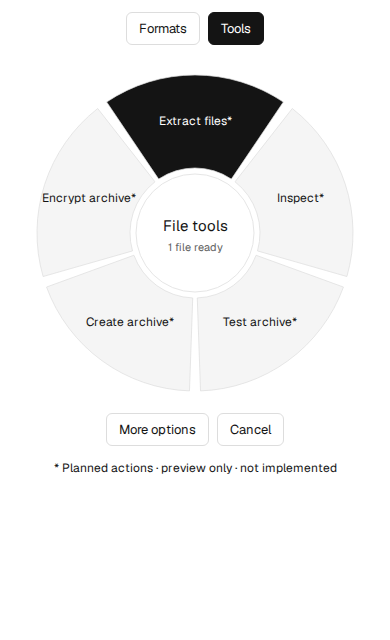
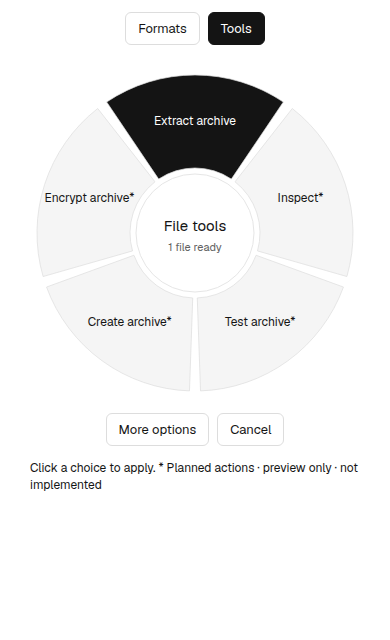
feat: add archive extraction and video mute tools

diff --git a/src/renderer/renderer.js b/src/renderer/renderer.js
@@ -17,7 +17,7 @@ function render() {
     const row = document.createElement('div'); row.className = 'file-row';
     const identity = document.createElement('div'); identity.className = 'file-name'; identity.textContent = file.name; identity.title = file.name;
     const meta = document.createElement('span'); meta.className = 'file-meta'; meta.textContent = `${file.category} · ${bytes(file.bytes)}`; identity.append(meta);
-    const format = document.createElement('button'); format.className = 'file-format'; format.textContent = file.operation === 'strip-metadata' ? 'Clean metadata' : file.target ? `→ ${formatLabel(file, file.target)}` : 'Unavailable'; format.setAttribute('aria-label', `Output format for ${file.name}`); format.disabled = busy || !!file.output || !file.targets.length;
+    const format = document.createElement('button'); format.className = 'file-format'; format.textContent = file.operation === 'strip-metadata' ? 'Clean metadata' : file.operation === 'extract-archive' ? 'Extract archive' : file.operation === 'mute-video' ? 'Mute video' : file.target ? `→ ${formatLabel(file, file.target)}` : 'Unavailable'; format.setAttribute('aria-label', `Output format for ${file.name}`); format.disabled = busy || !!file.output || (!file.targets.length && !file.tools.length);
     format.onclick = () => openFormats(file); format.onkeydown = event => { if (event.key === 'Shift') { event.preventDefault(); openFormats(file); } };
     const state = document.createElement('div'); state.className = `file-state${file.error ? ' error' : ''}`;
     if (file.output) { const reveal = document.createElement('button'); reveal.textContent = 'Show file'; reveal.onclick = () => bridge.reveal(file.output).catch(error => message(error.message)); state.append(reveal); }
@@ -66,6 +66,16 @@ function openFormats(file) {
       active.imageOptions = { width: $('#image-width').value ? Number($('#image-width').value) : undefined, height: $('#image-height').value ? Number($('#image-height').value) : undefined, quality: Number($('#image-quality').value), background: $('#image-background').value };
       active.operation = 'optimize-image'; active.target = file.name.split('.').pop().toLowerCase(); $('#format-dialog').close(); render();
     }; $('#format-wheel').append(button);
+  }
+  if (file.tools.includes('extract-archive')) {
+    const button = document.createElement('button'); button.type = 'button'; button.textContent = 'Extract archive';
+    button.onclick = () => { active.operation = 'extract-archive'; active.target = file.name.split('.').pop().toLowerCase(); $('#format-dialog').close(); render(); };
+    $('#format-wheel').append(button);
+  }
+  if (file.tools.includes('mute-video')) {
+    const button = document.createElement('button'); button.type = 'button'; button.textContent = 'Mute video';
+    button.onclick = () => { active.operation = 'mute-video'; active.target = file.name.split('.').pop().toLowerCase(); $('#format-dialog').close(); render(); };
+    $('#format-wheel').append(button);
   }
   $('#format-dialog').showModal();
 }

diff --git a/docs/CURRENT_SUPPORT.md b/docs/CURRENT_SUPPORT.md
@@ -5,7 +5,7 @@ This is the implemented scope, distinct from the reference website's 275-path re
 | Category | Inputs | Available outputs | Current fidelity |
 | --- | --- | --- | --- |
 | Images | JPG/JPEG, PNG, WebP, TIFF/TIF, AVIF, SVG, BMP, HEIC | PNG, JPG, WebP, AVIF, TIFF, BMP, PDF | One raster frame/page; metadata removed; default quality 85; optional size/quality and JPG/BMP background controls. HEIC: first decoded 8-bit image, no HDR/depth/sequence preservation |
-| Video | MP4, MOV, MKV, WebM, AVI, WMV, GIF | MP4, MOV, MKV, WebM, AVI, WMV; GIF and MP3 from video containers | Re-encodes first video/audio streams; MP3 requires an audio track; GIF input cannot produce audio |
+| Video | MP4, MOV, MKV, WebM, AVI, WMV, GIF | MP4, MOV, MKV, WebM, AVI, WMV; GIF and MP3 from video containers | Re-encodes first video/audio streams; MP3 requires an audio track; GIF input cannot produce audio. Tools wheel includes **Mute video** for non-GIF files; it stream-copies the first video stream to a separate copy with audio removed. |
 | Audio | MP3, M4A, WAV, FLAC, OGG, Opus, AIFF, WMA | Other formats in the same list | Actual FFmpeg encoding; codec defaults explicit in media adapter |
 | PDF | PDF | TXT, MD, DOCX, EPUB, PNG, JPG, PPTX | Text exports lose layout and require selectable text; PNG/JPG export every page at 300 DPI into a ZIP; PPTX contains rendered page images |
 | Documents | DOCX, RTF, Markdown, TXT, HTML | TXT, Markdown, HTML, DOCX, PDF, EPUB, PNG/JPG page ZIPs | DOCX/RTF PDF/page images use Office rendering when available; other exports preserve text only. Missing fonts can change layout |
@@ -13,7 +13,7 @@ This is the implemented scope, distinct from the reference website's 275-path re
 | Spreadsheets | XLSX, ODS, CSV, TSV; XLS with Office | XLSX, ODS, CSV, TSV, PDF | Workbook/text exports preserve values and cached formula results, not formulas/styles. Office renders PDF from XLS/XLSX/ODS when available; fallback PDF is a text table. Multi-sheet CSV/TSV is rejected |
 | EPUB | EPUB | TXT, Markdown, HTML, DOCX, PDF | Text in spine/reading order. No book images/layout or DRM/encryption support |
 | Subtitles | SRT, VTT | Other subtitle format or TXT | Cue timing; not styling, identifiers, or settings |
-| Archives | ZIP, TAR, TAR.GZ, TGZ, GZIP, RAR | ZIP, TAR, TAR.GZ | Regular file contents/names and directories. No links, special files, encryption, or archive metadata preservation. RAR repacking uses WebAssembly libarchive |
+| Archives | ZIP, TAR, TAR.GZ, TGZ, GZIP, RAR | ZIP, TAR, TAR.GZ; extract to a new folder | Tools wheel includes **Extract archive**. Extraction/repacking accepts regular file contents/names and directories. No links, special files, encryption, or archive metadata preservation. Expanded data is bounded to 200 MB / 10,000 entries; Windows reserved or invalid filenames are rejected. RAR uses WebAssembly libarchive |
 
 Same-format conversions are hidden. JPEG/TIFF aliases and TGZ map to their canonical extensions. Output saves beside the input or in the chosen session destination, with collision-safe numbered names. Sources are not overwritten. PDF/document/slide page-image archives use `.png.zip` or `.jpg.zip` filenames. See OFFICE_ENGINE.md for setup and exact engine availability.
 
@@ -31,11 +31,11 @@ CLI example: `npm run convert -- "C:\path\clip.mov" mp4`. Optional third argumen
 
 HEIC encoding, Pages import/export, RTFD/text clippings, scanned-document OCR, editable PDF table/slide reconstruction, full Office fidelity and much of the reference tool inventory. Text-to-PDF uses bundled Liberation Sans; scripts absent from that font are not faithfully rendered. Video defaults do not preserve HDR/transparency or additional streams. The complete remaining reference gap is 40 routes; see CONVERSION_TEST_RESULTS.md and RELEASE_READINESS.md.
 
-The background drag wheel is implemented with an initial Windows/X11 hook adapter. Actual file-manager drag behavior, macOS permissions/runtime, and Linux runtime need native verification; Wayland capture is unavailable. File-manager extensions, sharing/shelf actions, advanced editors, settings, custom output folder UI, and signed releases remain future work. The source is portable, but this session verified Windows only.
+The background drag wheel is implemented with an initial Windows/X11 hook adapter. Actual file-manager drag behavior, macOS permissions/runtime, and Linux runtime need native verification; Wayland capture is unavailable. File-manager extensions, sharing/shelf actions, most advanced editors, settings, custom output folder UI, and signed releases remain future work. Archive extraction is available in the Tools wheel. The source is portable, but this session verified Windows only.
 
 ### Editing-tool coverage
 
-Peeler currently exposes image resize/quality/background options and metadata removal, but does not implement Tangerine's video, audio, PDF, or archive tools. Tangerine's category showcase presents format conversions for Documents, Slides, Spreadsheets, EPUB, and Subtitles without a separate tools wheel for those categories. Peeler's conversion routes and tool/action gaps are mapped separately in the [category parity plan](TOOL_PARITY_PLAN.md).
+Peeler currently exposes image resize/quality/background options and metadata removal, video mute, and archive extraction. The other observed Tangerine video/audio/PDF/image tools are not yet implemented. Tangerine's category showcase presents format conversions for Documents, Slides, Spreadsheets, EPUB, and Subtitles without a separate tools wheel for those categories. Peeler's conversion routes and tool/action gaps are mapped separately in the [category parity plan](TOOL_PARITY_PLAN.md).
 
 ## Input bounds
 

diff --git a/docs/TOOL_PARITY_PLAN.md b/docs/TOOL_PARITY_PLAN.md
@@ -52,9 +52,9 @@ Peeler has no file-actions wheel or assigned key for one. Tangerine's Mac demo u
 
 **Tangerine tools for a selection:** Compress; Edit Metadata; Remove Audio; Join. Joining accepts multiple clips and lets the user arrange playback order. Other tools depend on a single selected video.
 
-**Peeler now:** Format conversion and MP3 audio extraction through the local FFmpeg worker. No video editing tools are implemented.
+**Peeler now:** Format conversion and MP3 audio extraction through the local FFmpeg worker. The Tools wheel includes **Mute video** for non-GIF video; it copies the first video stream, removes audio, and saves a separate file.
 
-**Peeler planned:** Compression controls; metadata inspection/editing/removal; mute; trim; crop; speed changes; frame export; split; join; permanent time-scoped redaction. Add Tools wheel actions: **Compress**, **Metadata**, **Mute**, **Trim**, **Crop**, **Change Speed**, **Save Frames**, **Split**, **Join**, and **Redact**.
+**Peeler planned:** Compression controls; metadata inspection/editing/removal; trim; crop; speed changes; frame export; split; join; permanent time-scoped redaction. Add Tools wheel actions: **Compress**, **Metadata**, **Trim**, **Crop**, **Change Speed**, **Save Frames**, **Split**, **Join**, and **Redact**.
 
 ### Audio
 
@@ -138,7 +138,9 @@ Peeler has no file-actions wheel or assigned key for one. Tangerine's Mac demo u
 
 **Peeler now:** Convert ZIP, TAR, GZIP, and RAR input to supported archive outputs; reject unsafe paths, links, encryption, or expansion beyond configured bounds. No extraction-to-folder UI is implemented.
 
-**Peeler planned:** Safe extraction with destination choice, collision handling, cancellation, and archive safety checks. The observed reference tool is **Extract Archive**. **Inspect Contents**, **Test Archive**, **Create Archive**, and **Encrypt Archive** are additional Peeler roadmap ideas, not observed reference actions.
+**Peeler now:** **Extract Archive** appears in the Archives Tools wheel and writes regular files into a separate collision-safe folder. Extraction rejects unsafe paths, links, special files, encrypted entries, and Windows-invalid names, and respects the 200 MB / 10,000-entry bound.
+
+**Peeler planned:** Add a destination picker and deeper cancellation coverage. **Inspect Contents**, **Test Archive**, **Create Archive**, and **Encrypt Archive** are additional Peeler roadmap ideas, not observed reference actions.
 
 ## File actions
 
@@ -153,7 +155,7 @@ Windows/Linux parity requires platform equivalents rather than macOS service nam
 3. **Image vertical slice:** crop plus metadata display/removal and a crop UI with preview and safe export; then add target-size compression, adjustments, annotations, backgrounds, redaction, PDF creation, and collage.
 4. **PDF slice:** metadata, compression, split/merge, page organization, then OCR, redaction, and table extraction with independently checked results.
 5. **Audio then video slices:** implement actions from the observed lists in small complete groups, sharing tested FFmpeg transforms where sensible; add preview, cancellation, audio/video sync and preservation checks before redaction.
-6. **Archive extraction:** safe destination selection, path/link rejection, collision handling, cancellation, and expansion limits. Add additional archive utilities only as separate Peeler roadmap items.
+6. **Archive tools:** add a destination picker and deeper cancellation coverage for the implemented extraction action. Keep additional archive utilities as separate Peeler roadmap items.
 7. **Complete remaining conversion coverage and fidelity** for documents, slides, spreadsheets, EPUB, and subtitles. Keep new editor ideas in a separately labeled Peeler roadmap; do not imply they are reference parity requirements.
 8. **File actions and third mode:** settle a configurable Windows/Linux key after drag conflict tests, then deliver Copy Path and Terminal, followed by Move and native file Copy; build Float and per-platform Share adapters after their native UX and availability are proven.
 9. macOS permissions/runtime verification follows the Windows/Linux milestones.

diff --git a/docs/PRODUCT_SPEC.md b/docs/PRODUCT_SPEC.md
@@ -29,7 +29,7 @@ All ten categories are required for the intended product. These are target capab
 | Spreadsheets | XLSX, ODS, CSV, TSV; XLS input; PDF export |
 | EPUB | EPUB to PDF, DOCX, Pages, TXT, Markdown, HTML; PDF to EPUB |
 | Subtitles | SRT/VTT interchange and plain-text export |
-| Archives | ZIP/TAR/GZIP interchange; RAR extraction |
+| Archives | ZIP/TAR/GZIP interchange; RAR repacking and safe extraction |
 
 Current image operations process one raster image, auto-orient where supported, strip metadata, and default to quality 85. The optional converter now provides proportional maximum dimensions, lossy quality, and JPG/BMP background choices, reachable through More options after a wheel drop. HEIC input uses a separately tested decoder; HEIC output is still unavailable. Animated/multipage preservation, exact-size compression, and metadata retention settings remain unimplemented. Subtitle conversion drops cue identifiers/settings and skips VTT NOTE/STYLE/REGION blocks; it is not a full styling-preserving subtitle editor.
 
@@ -46,13 +46,13 @@ The reference demo defines 26 distinct tool identifiers. Peeler should implement
 | PDF | Split; organize pages; merge |
 | Archives | Extract |
 
-Only image metadata removal is included in the starter. It re-encodes the image; it is not lossless tag surgery. Future redaction must remove underlying content, including PDF text and image data, rather than merely adding a visual layer. OCR and face detection must run locally and remain optional.
+The current advanced tools are image metadata removal/options, video mute, and archive extraction. Image metadata removal re-encodes the image; it is not lossless tag surgery. Future redaction must remove underlying content, including PDF text and image data, rather than merely adding a visual layer. OCR and face detection must run locally and remain optional.
 
 Detailed editor requirements from the tools catalog: frame stepping and typed timecodes for video trims; first-clip canvas selection for joins; custom or evenly spaced split points; pitch preservation for speed changes; loudness range and peak controls for normalization; independent left/right gain and channel preview; silence trimming limited to recording boundaries; time-scoped video redaction; original-versus-bleep audio preview; and selectable page order before PDF merge. Image editors include correction controls, freehand/shape annotations, composited backgrounds, exact crop dimensions, and configurable collage layouts. These remain future acceptance cases, not controls in the starter.
 
 ## File actions
 
-Reference actions comprise system sharing (AirDrop on macOS), a floating shelf, clipboard file copy, move, path copy, and opening a containing directory in a terminal. None is implemented yet. Peeler can reveal completed outputs in the native file manager and supports a session output directory, but these do not implement the six actions. Peeler needs platform adapters: AirDrop is macOS-specific; Windows/Linux alternatives depend on available sharing facilities. A floating shelf should support drag-out and optional edge pinning. Actions must support folders and heterogeneous selections independently of conversion capability.
+Reference actions comprise system sharing (AirDrop on macOS), a floating shelf, clipboard file copy, move, path copy, and opening a containing directory in a terminal. None of the six file actions is implemented yet. Peeler can reveal completed outputs in the native file manager and supports a session output directory, but these do not implement the six actions. Peeler needs platform adapters: AirDrop is macOS-specific; Windows/Linux alternatives depend on available sharing facilities. A floating shelf should support drag-out and optional edge pinning. Actions must support folders and heterogeneous selections independently of conversion capability. Archive extraction is a separate file tool and is now implemented in the Tools wheel.
 
 ## Acceptance criteria
 

diff --git a/docs/ROADMAP.md b/docs/ROADMAP.md
@@ -1,6 +1,6 @@
 # Roadmap
 
-Current evidence: 235/275 reference routes have passing fixtures; 40 remain unimplemented. See [CONVERSION_TEST_RESULTS.md](CONVERSION_TEST_RESULTS.md), [PARITY_PLAN.md](PARITY_PLAN.md), and [RELEASE_READINESS.md](RELEASE_READINESS.md). Route counts alone do not establish fidelity or full product parity.
+Last Windows fixture audit: 235/275 reference routes passed; 40 were unavailable in that audit. A separate Linux reproduction on 2026-11-02, without Office or the optional HEIC fixture installed, passed 241 conversions, found 50 unavailable routes and left 7 HEIC-input routes untested. These are different environments; see [CONVERSION_TEST_RESULTS.md](CONVERSION_TEST_RESULTS.md), [PARITY_PLAN.md](PARITY_PLAN.md), and [RELEASE_READINESS.md](RELEASE_READINESS.md). Route counts alone do not establish fidelity or full product parity.
 
 ## Foundation (current milestone)
 
@@ -14,7 +14,7 @@ Background tray host, lazy radial overlay, optional picker, local conversion ada
 4. Maintain/update the bundled FFmpeg source and binary supply chain; extend tested conversions with trim, mute, normalize, and channel transforms before timelines and redaction.
 5. Add PDF merge/split/organize and optional local OCR/table reconstruction. Page rasterization and text extraction already have passing fixtures.
 6. Upgrade document/slides/sheets adapters from text/value conversion to measured layout fidelity; add missing office formats and assess Pages import/export separately. See the office-engine proof in PARITY_PLAN.md.
-7. Extend bounded archive repacking with RAR input. Traversal/link rejection and expanded-size/entry-count bounds already exist; extend adversarial fixtures and engine-specific limits.
+7. Extend bounded archive repacking with RAR input. Traversal/link rejection and expanded-size/entry-count bounds already exist; archive extraction is now available from the Tools wheel. Extend adversarial fixtures and engine-specific limits.
 
 Track editing actions independently from format conversion. The per-category comparison with Tangerine's public, simulated wheel demo, Peeler's current gaps, and evidence limits is in [TOOL_PARITY_PLAN.md](TOOL_PARITY_PLAN.md#evidence-and-limits). The Windows/Linux sequence starts with real Explorer and X11 file-manager validation, then a complete image slice, PDF operations, audio/video controls, and archive extraction. Tangerine's Control key is not adopted as Peeler's third-mode default until Windows/Linux native drag-copy conflicts are tested.
 
@@ -33,7 +33,7 @@ The complete category-by-category reference actions, Peeler status, shortcuts, a
 - **Video:** compression/metadata, mute, trim, crop, speed, frame export, split, join, and permanent redaction.
 - **Audio:** compression/metadata, loudness normalization, waveform video, trim, channel conversion, and bleep ranges.
 - **PDF:** compression/metadata, split, merge, page organization, OCR, and table reconstruction.
-- **Archives:** safe extract-to-folder workflow.
+- **Archives:** destination selection and stronger cancellation coverage for extract-to-folder.
 - **Documents, Slides, Spreadsheets, EPUB, and Subtitles:** close remaining conversion/fidelity gaps; the reference category showcase does not display separate editing wheels for these categories.
 
 Build and verify these actions as file-type-aware flows. Actions can differ between a single file and a multi-file selection. Use the modifier keys in the parity plan for each OS; Linux Wayland uses the tray picker until global drag capture is available.

diff --git a/README.md b/README.md
@@ -91,9 +91,9 @@ Start dragging a file, tap the listed key, and drop it onto the wheel to stage t
 
 **Tangerine actions:** Shift converts video among supported containers, exports GIF, or extracts MP3. Command, for one video: Compress, Metadata, Mute, Trim, Crop, Change Speed, Save Frames, Split, Redact. For a selection: Compress, Metadata, Mute, Join.
 
-**Peeler now:** Shift converts MP4, MOV, MKV, WebM, AVI, WMV, GIF, and audio extraction to MP3 when available. No video editing tools are implemented.
+**Peeler now:** Shift converts MP4, MOV, MKV, WebM, AVI, WMV, GIF, and audio extraction to MP3 when available. Left Alt opens **Mute video** for non-GIF video files.
 
-**Peeler planned:** Compress, Metadata, Mute, Trim, Crop, Change Speed, Save Frames, Split, Join, and Redact. [Details](docs/TOOL_PARITY_PLAN.md#video)
+**Peeler planned:** Compress, Metadata, Trim, Crop, Change Speed, Save Frames, Split, Join, and Redact. [Details](docs/TOOL_PARITY_PLAN.md#video)
 
 </details>
 
@@ -207,13 +207,13 @@ Start dragging a file, tap the listed key, and drop it onto the wheel to stage t
 
 ![Peeler Archives format wheel](docs/assets/peeler/categories/archives-formats.png)
 
-![Peeler Archives tools wheel: planned actions](docs/assets/peeler/categories/archives-tools.png)
+![Peeler Archives tools wheel: current Extract archive action and planned actions](docs/assets/peeler/categories/archives-tools.png)
 
 **Tangerine actions:** Shift converts archives to ZIP, TAR, or GZIP and imports RAR. Command extracts ZIP, TAR, GZIP, and RAR files beside the original.
 
-**Peeler now:** Shift converts ZIP, TAR, GZIP, and RAR input to supported archive outputs. Peeler does not yet extract an archive to a folder.
+**Peeler now:** Shift converts ZIP, TAR, GZIP, and RAR input to supported archive outputs. Left Alt opens **Extract archive** for ZIP/TAR/GZIP/RAR; files are extracted to a separate numbered folder with archive safety limits.
 
-**Peeler planned:** Extract Files, Inspect Contents, Test Archive, Create Archive, and Encrypt Archive, with destination choice, collision handling, cancellation, and archive safety checks. [Details](docs/TOOL_PARITY_PLAN.md#archives)
+**Peeler planned:** Add destination choice and fuller cancellation coverage. Inspect Contents, Test Archive, Create Archive, and Encrypt Archive are future Peeler ideas. [Details](docs/TOOL_PARITY_PLAN.md#archives)
 
 </details>
 

diff --git a/docs/assets/peeler/categories/README.md b/docs/assets/peeler/categories/README.md
@@ -2,4 +2,4 @@
 
 These PNGs are rendered from Peeler's own `src/renderer/wheel.html`, `wheel.js`, and `wheel.css` using sample file/menu data. They are Peeler UI previews, not Tangerine screenshots.
 
-Format wheels show the current format choices. Tools wheels list current image actions and planned actions for each file category. An asterisk marks a roadmap concept; starred choices are not implemented and cannot be run in Peeler today. Categories with more than eight actions use a second wheel page. The sample menu bridge is mocked for rendering; no conversion or tool action is executed.
+Format wheels show the current format choices. Tools wheels list current image, video mute, and archive extraction actions plus planned actions for other file categories. An asterisk marks a roadmap concept; starred choices are not implemented and cannot be run in Peeler today. Categories with more than eight actions use a second wheel page. The sample menu bridge is mocked for rendering; no conversion or tool action is executed.
